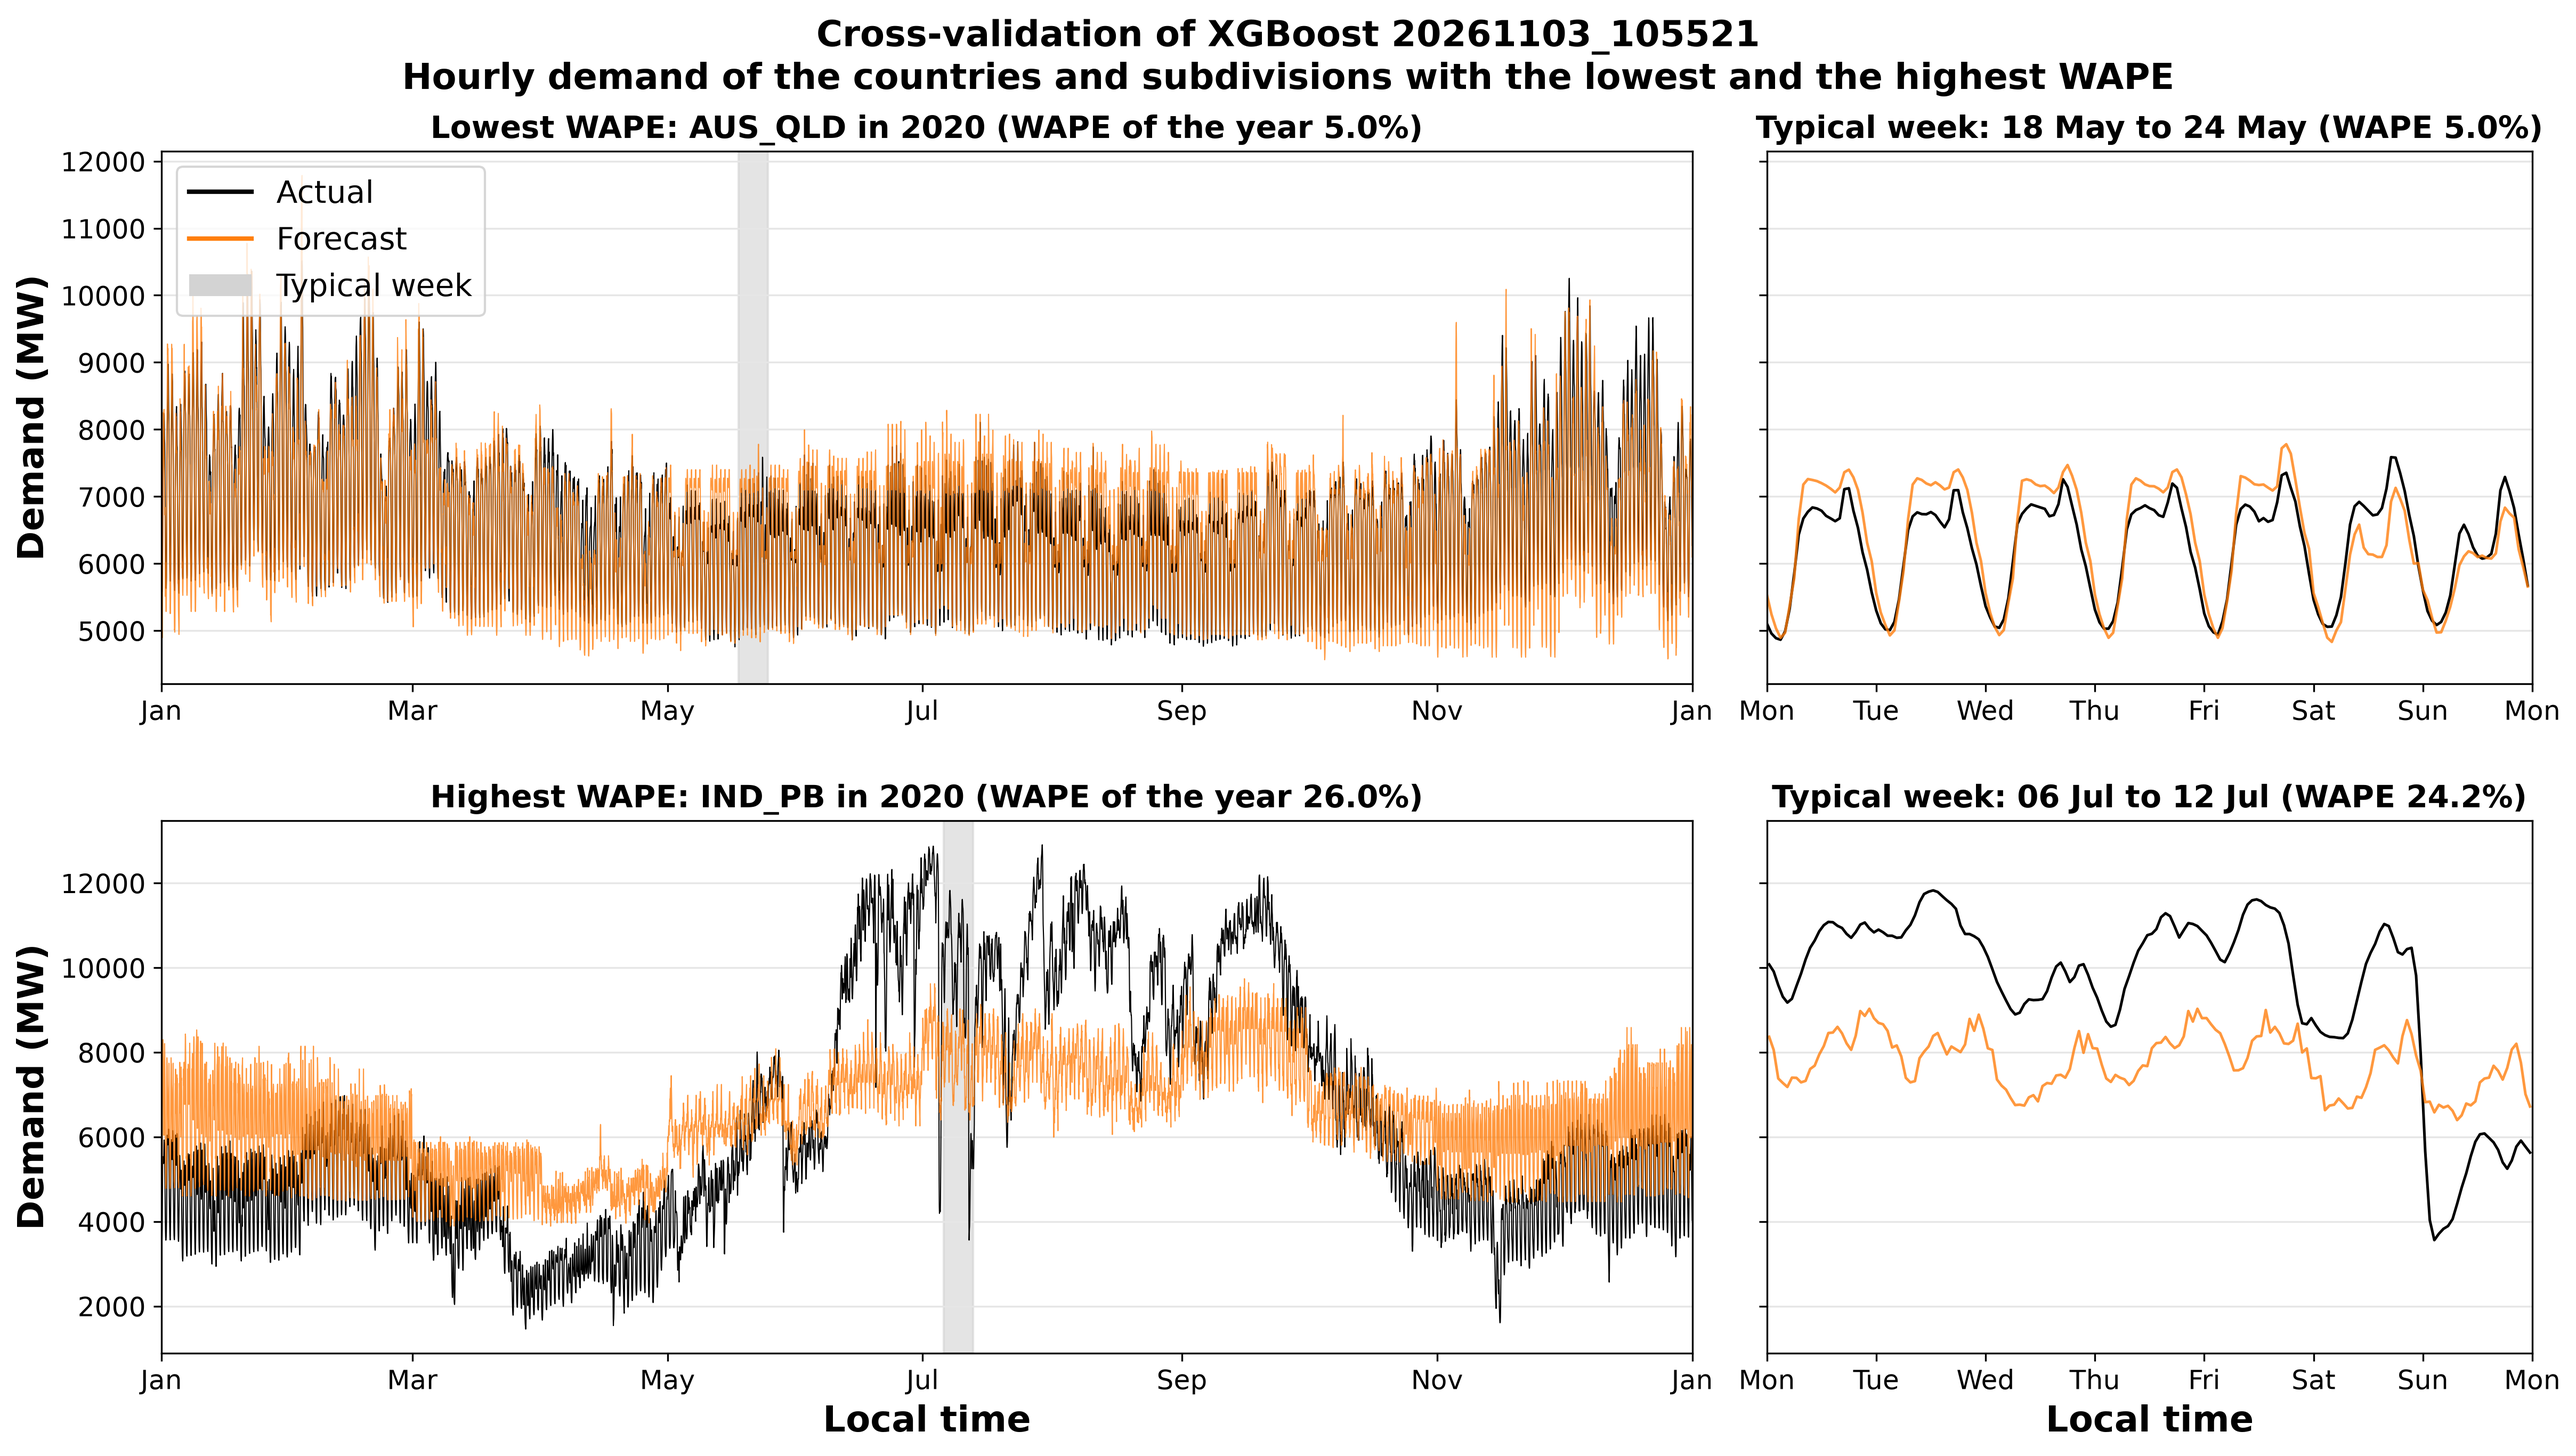
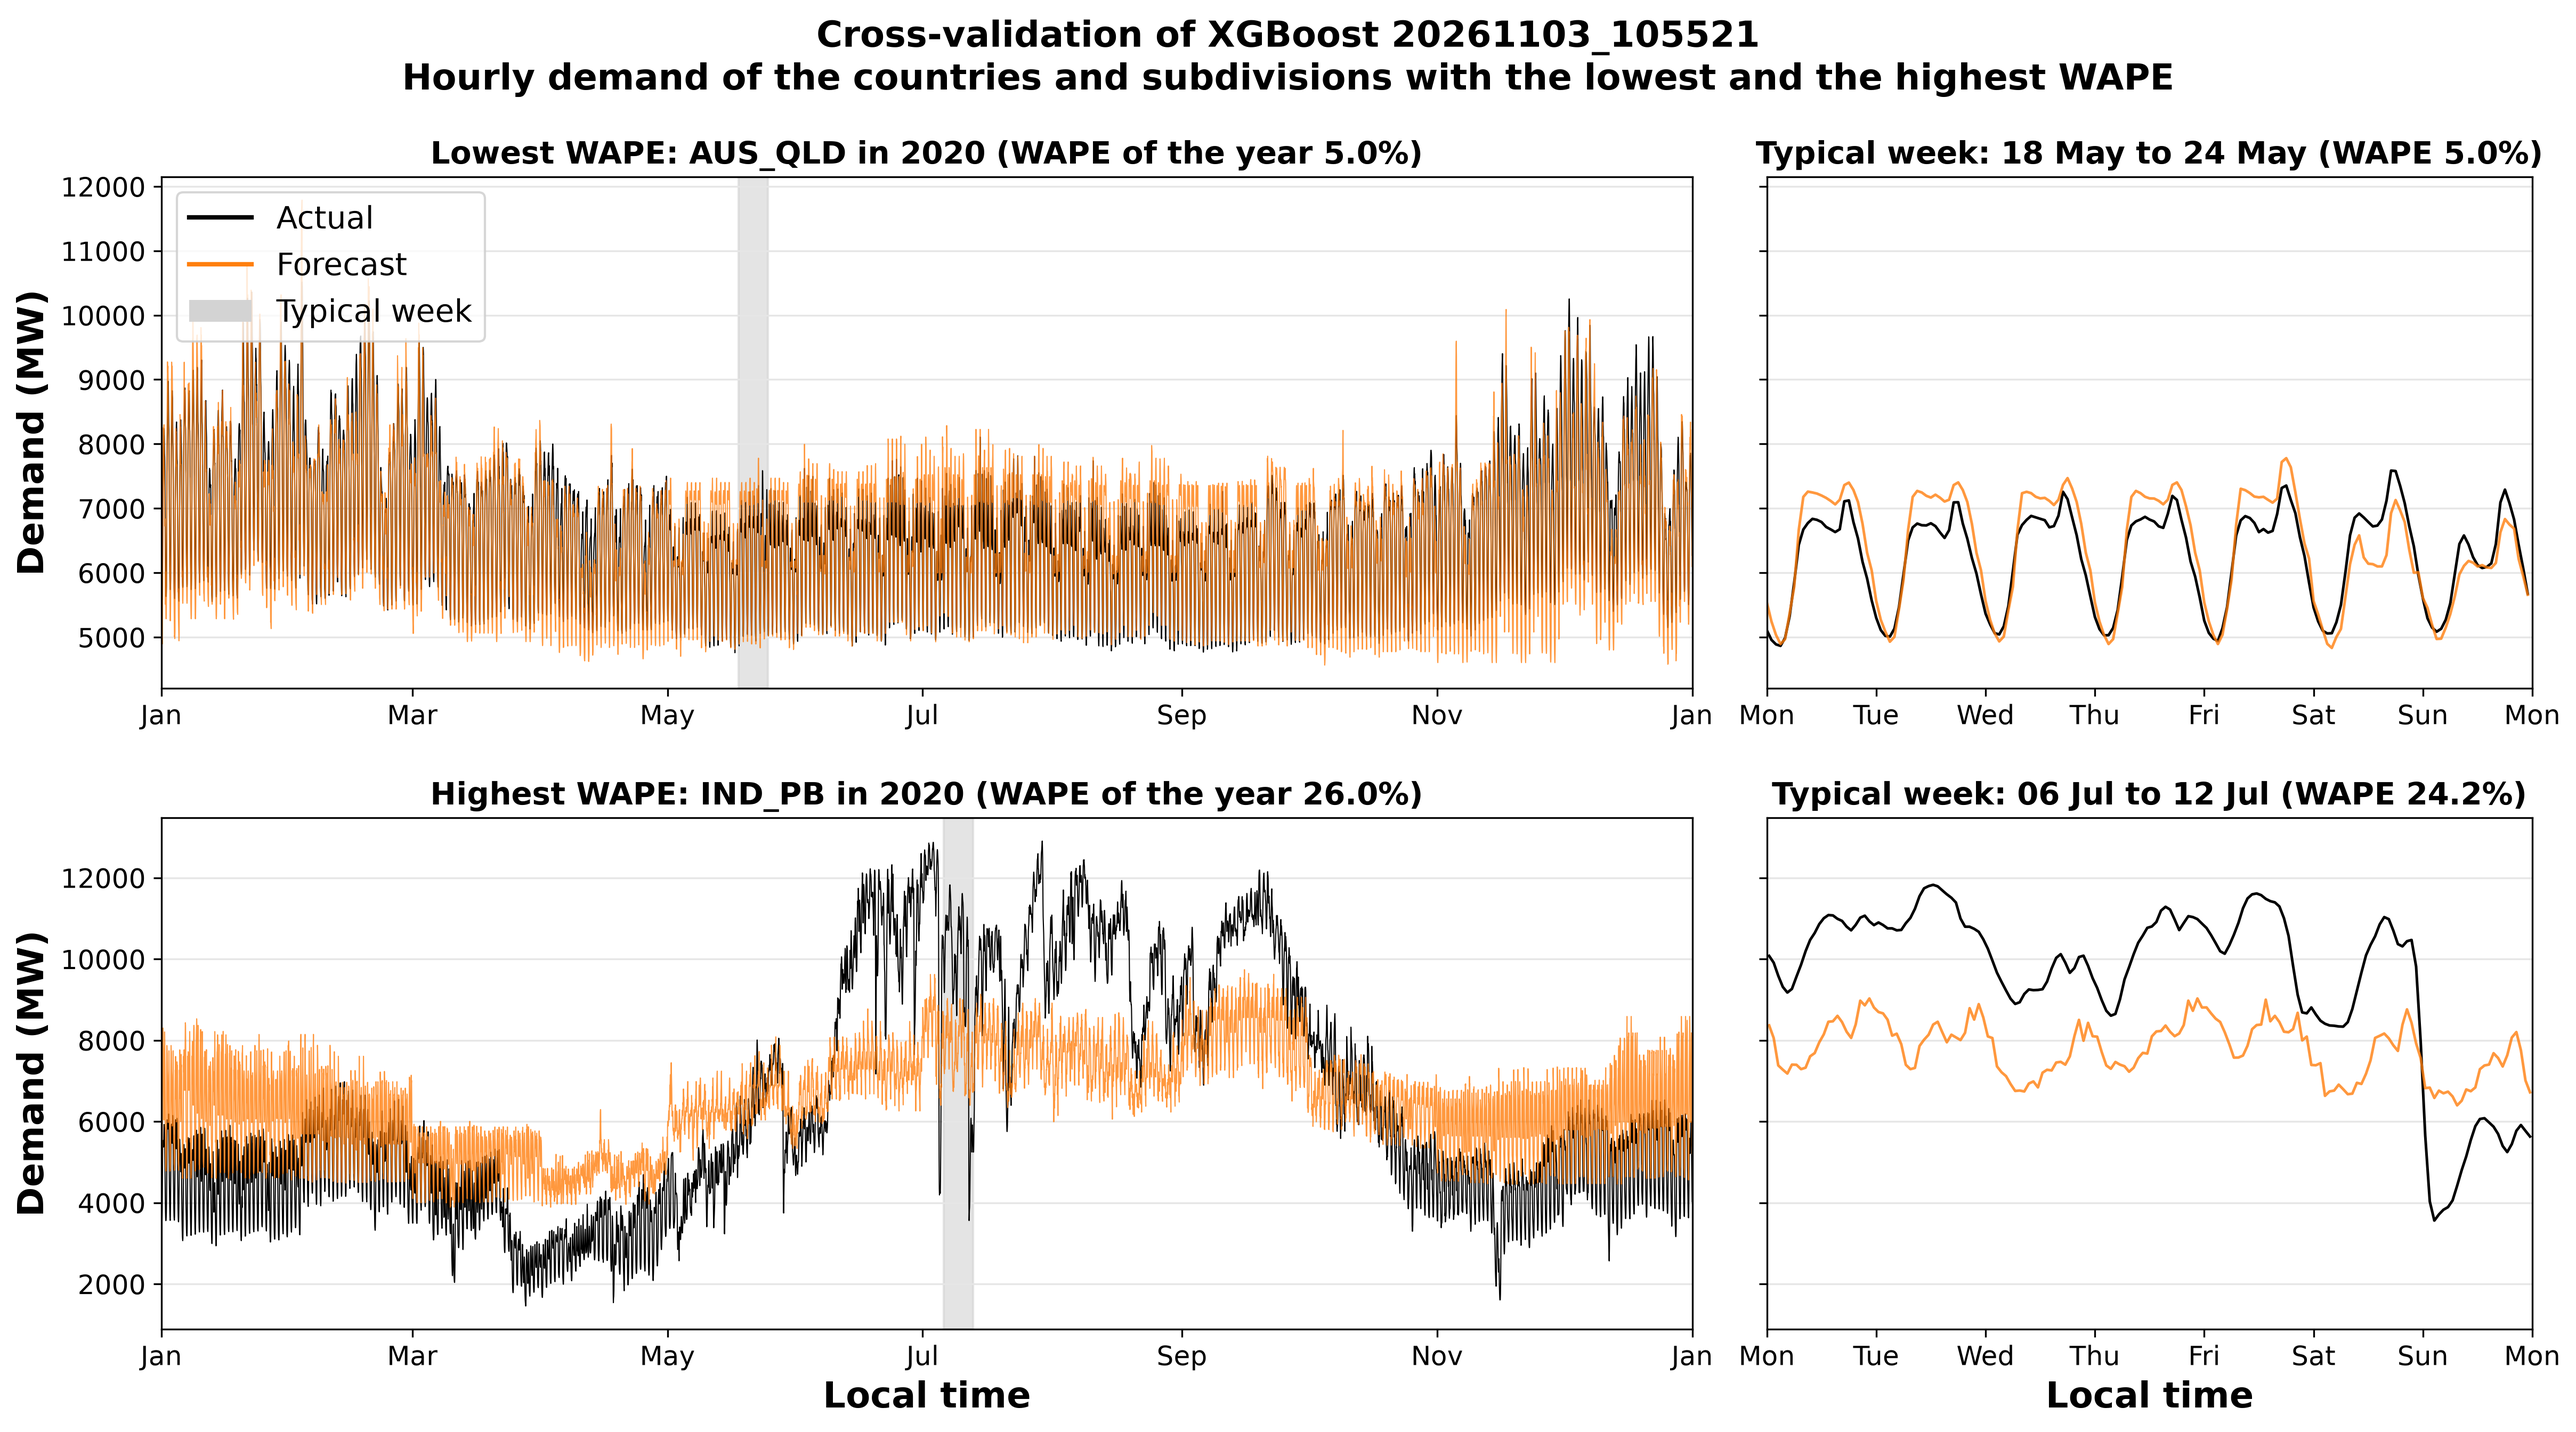
fix(figures): leave more space under the title of the best and worst forecasts

diff --git a/demandcast/figures/ml_results.py b/demandcast/figures/ml_results.py
@@ -633,7 +633,11 @@ def _plot_best_and_worst(
     axs[0, 0].legend(
         handles=handles, loc="upper left", fontsize=OVERALL_TEXT_SIZE - 2
     )
-    cast(ConstrainedLayoutEngine, fig.get_layout_engine()).set(hspace=0.08)
+    # The padding separates the title of the figure from those of the
+    # panels.
+    cast(ConstrainedLayoutEngine, fig.get_layout_engine()).set(
+        h_pad=0.12, hspace=0.07
+    )
     fig.suptitle(
         f"{description[0]}\nHourly demand of the countries and "
         "subdivisions with the lowest and the highest WAPE",
